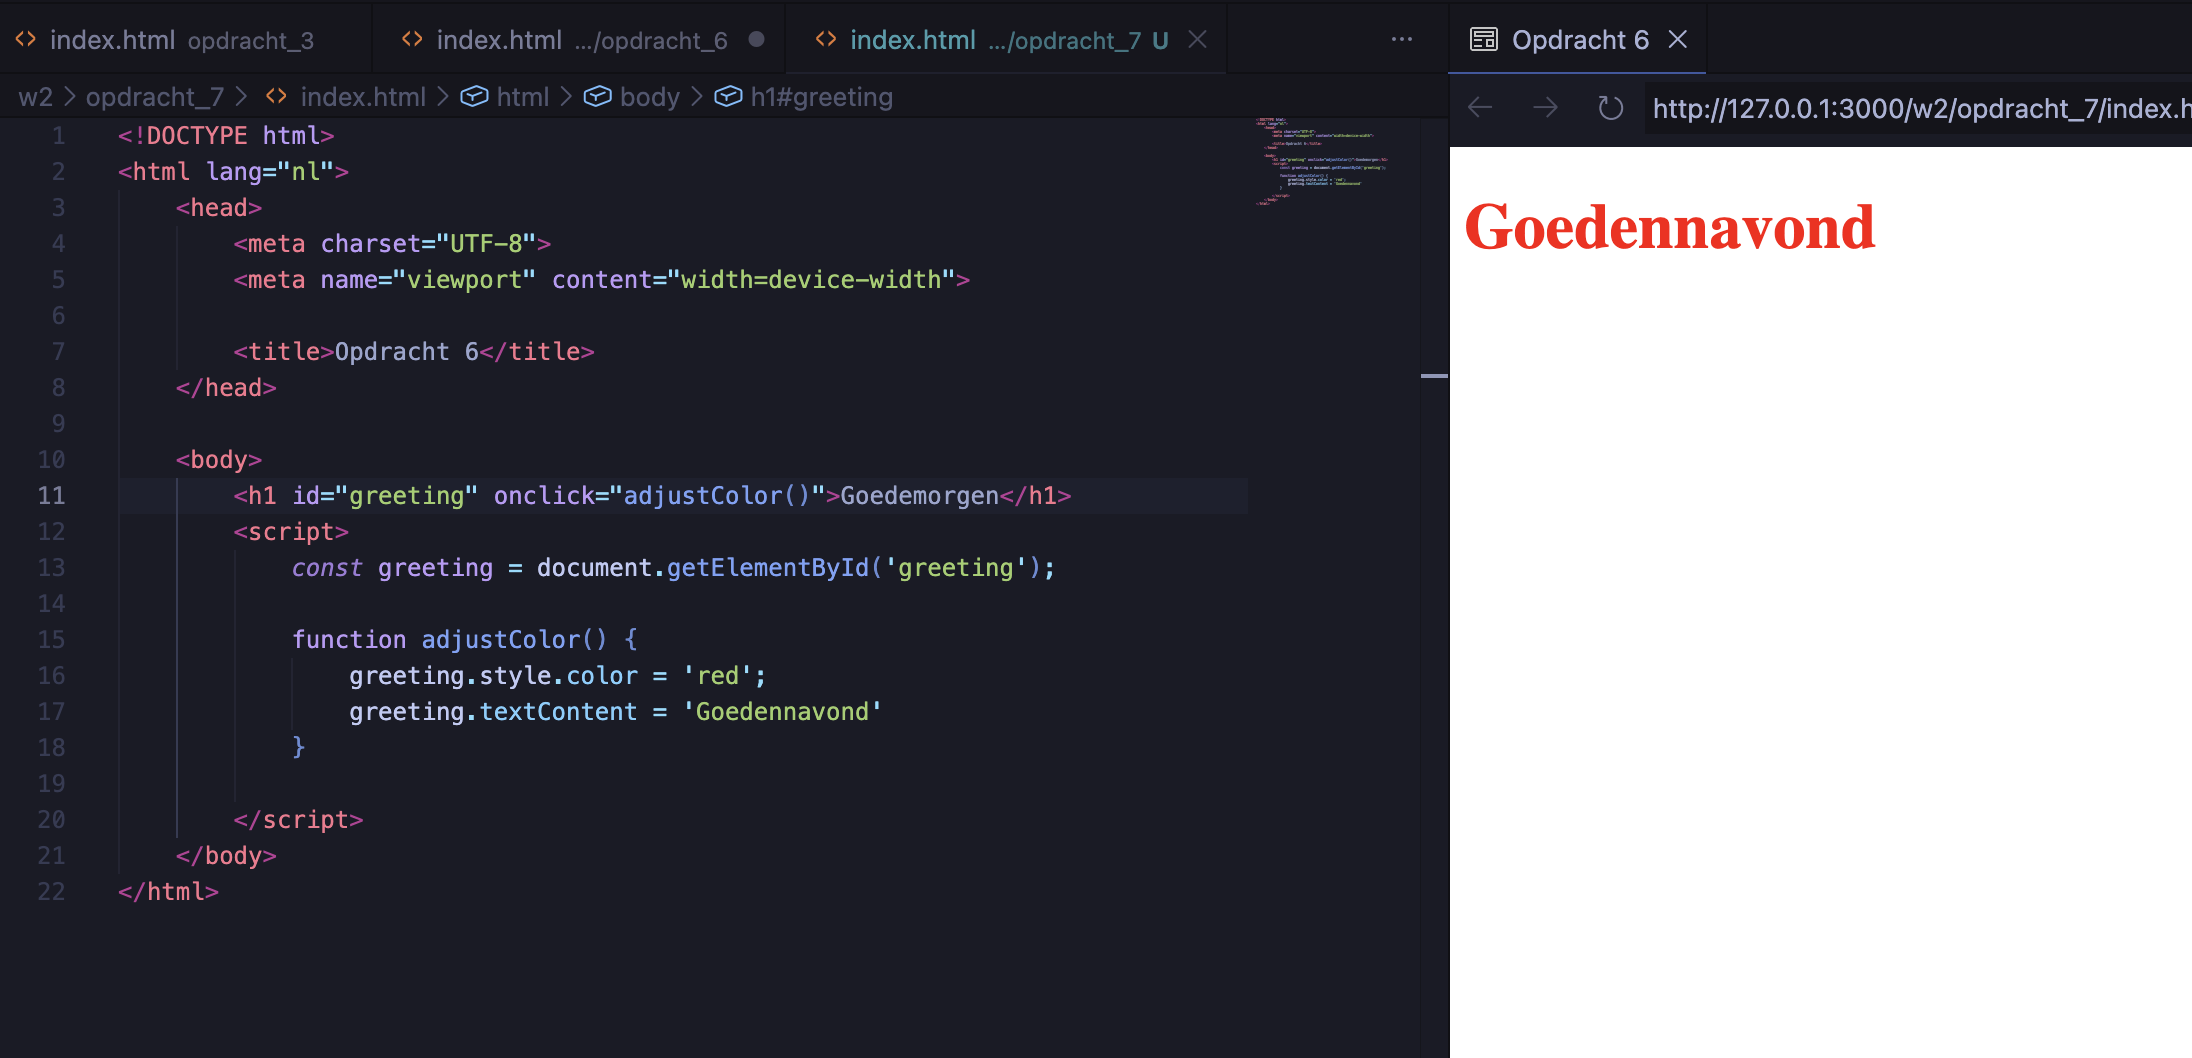
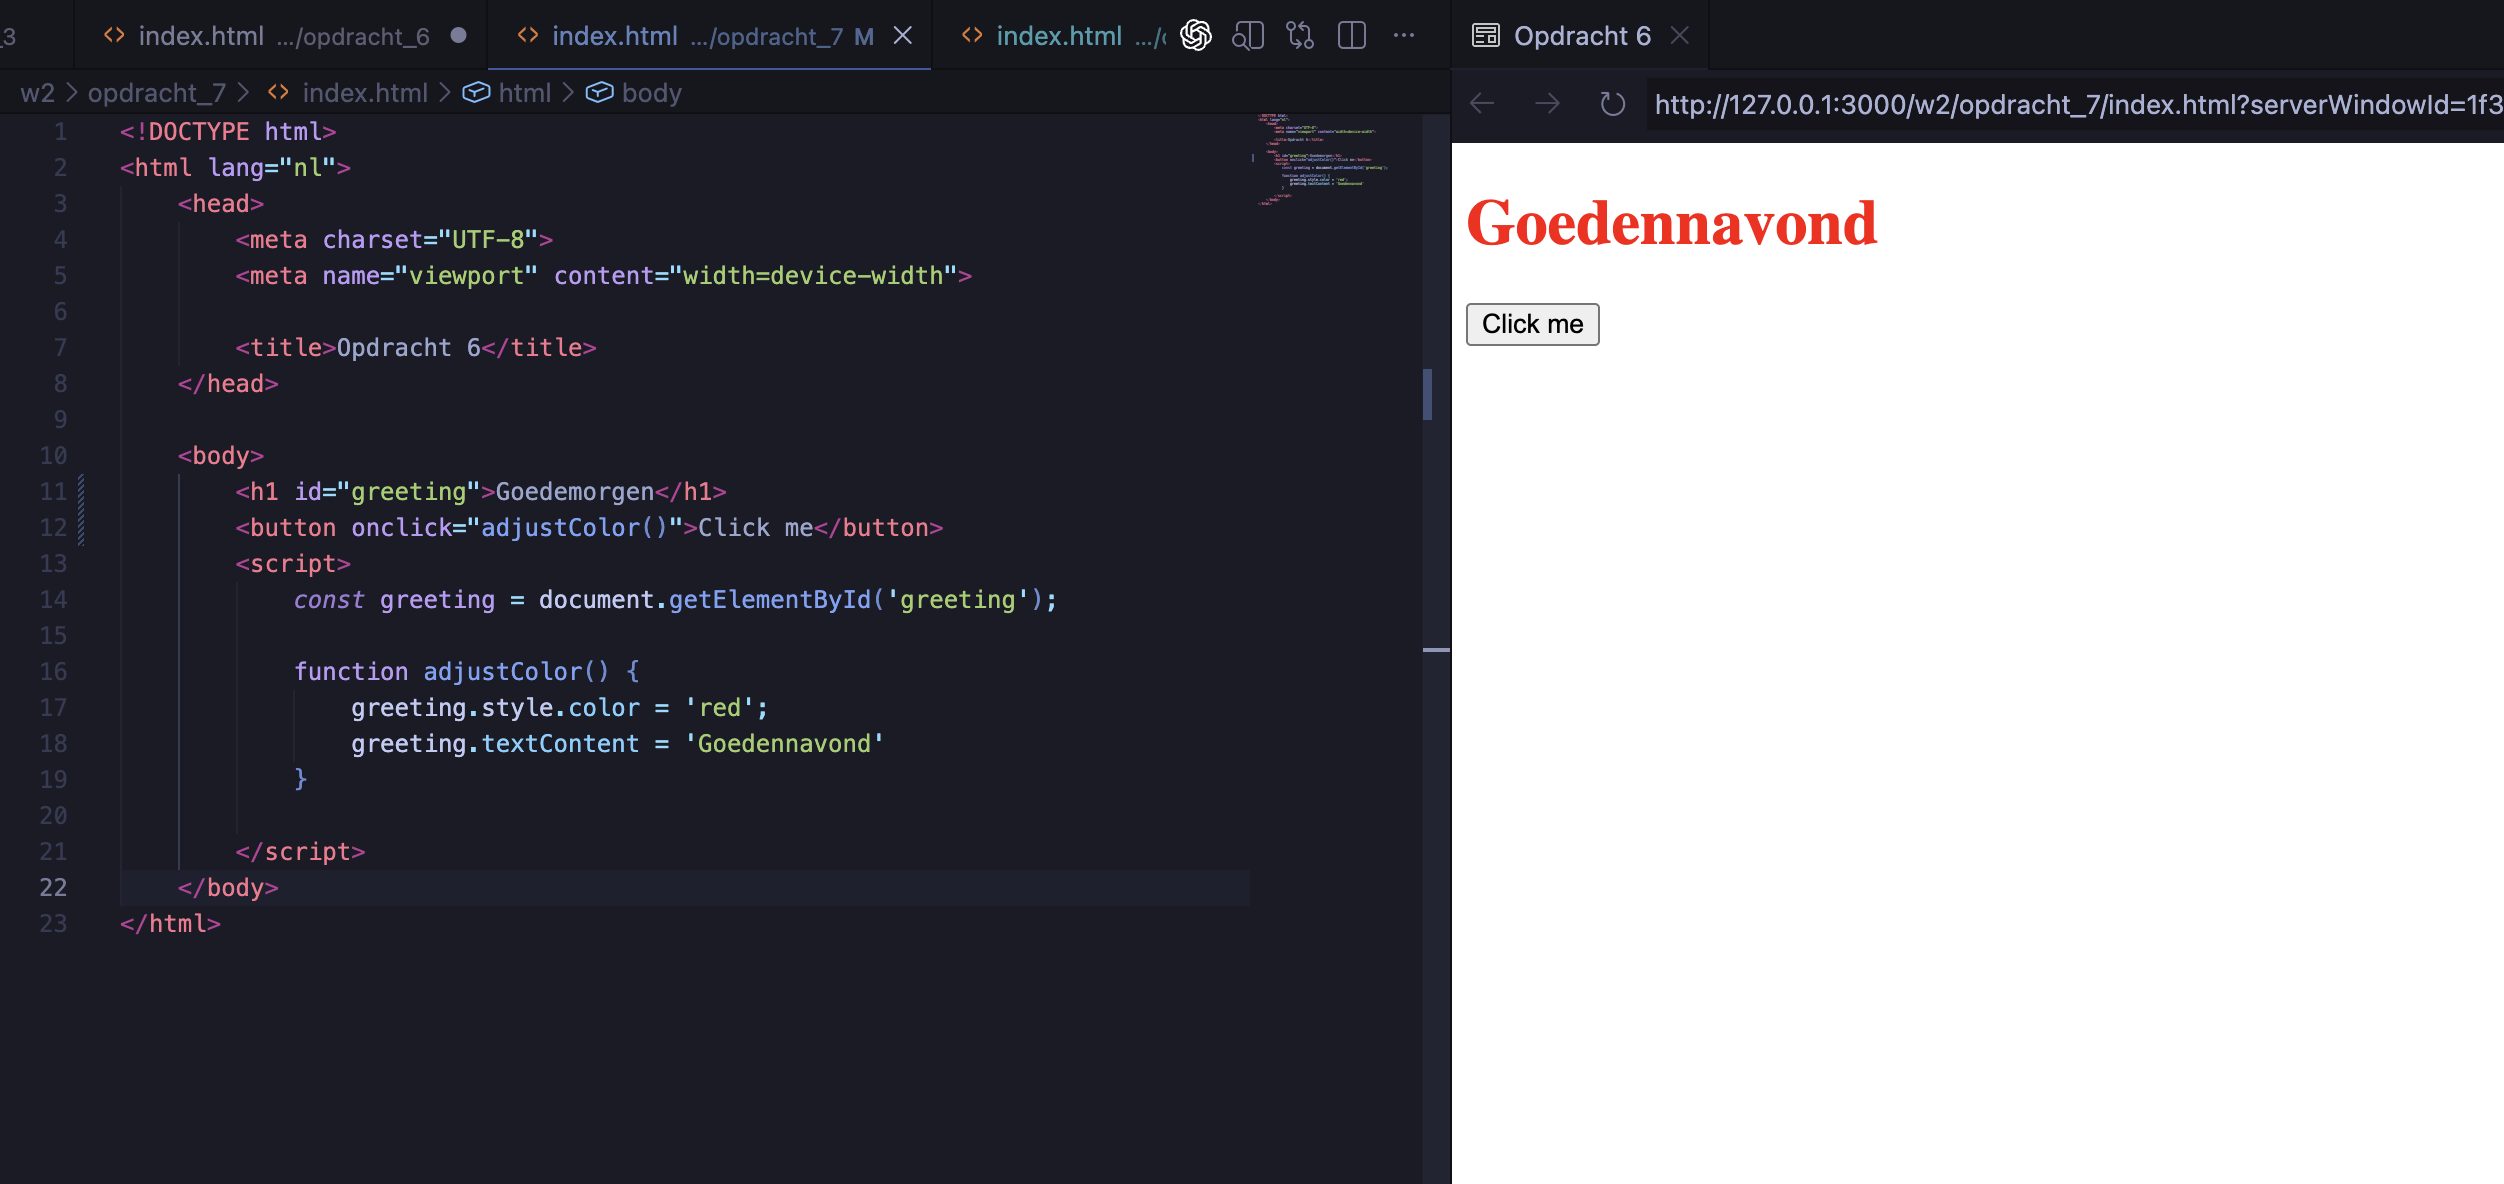
Opdracht 8 afgemaakt

diff --git a/w2/opdracht_8/index.html b/w2/opdracht_8/index.html
@@ -8,8 +8,7 @@
     </head>
 
     <body>
-        <h1 id="greeting">Goedemorgen</h1>
-        <button onclick="adjustColor()">Click me</button>
+        <h1 id="greeting" onclick="adjustColor()">Goedemorgen</h1>
         <script>
             const greeting = document.getElementById('greeting');
 
